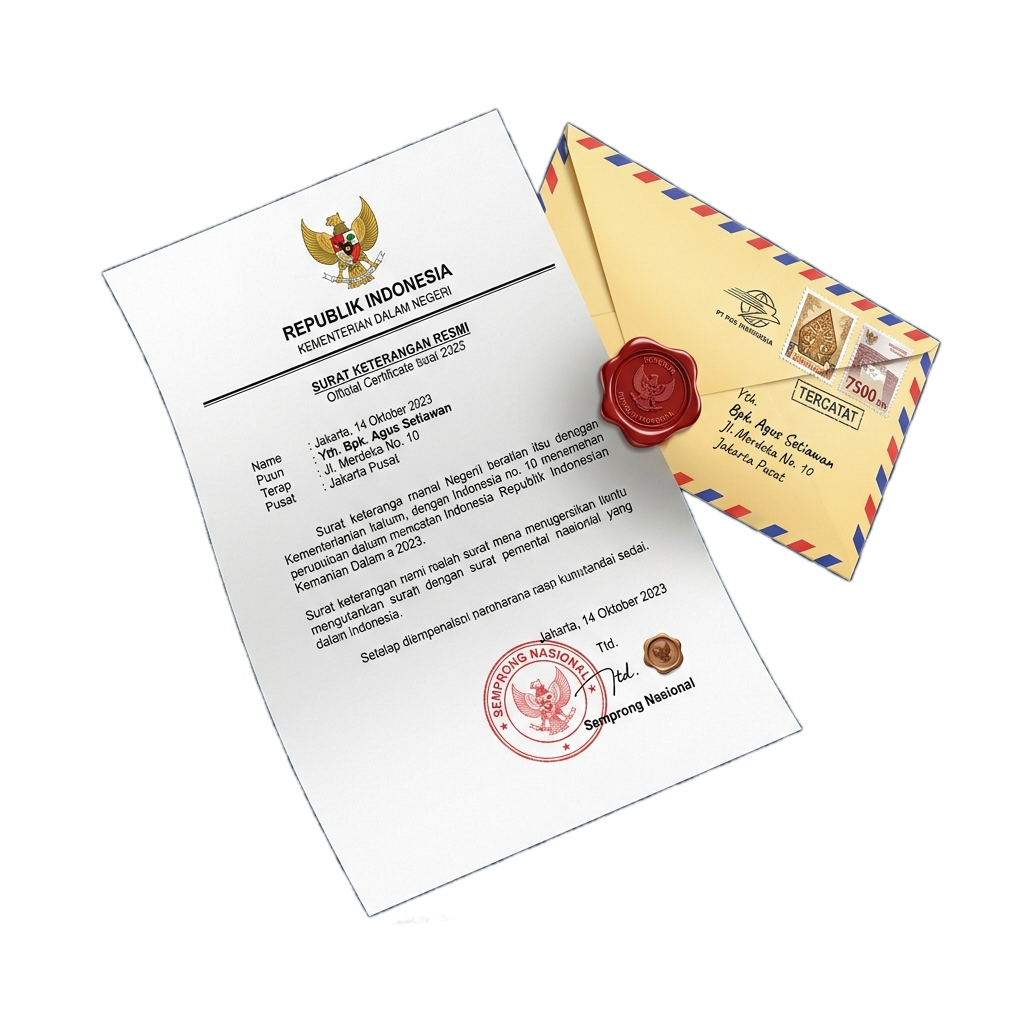
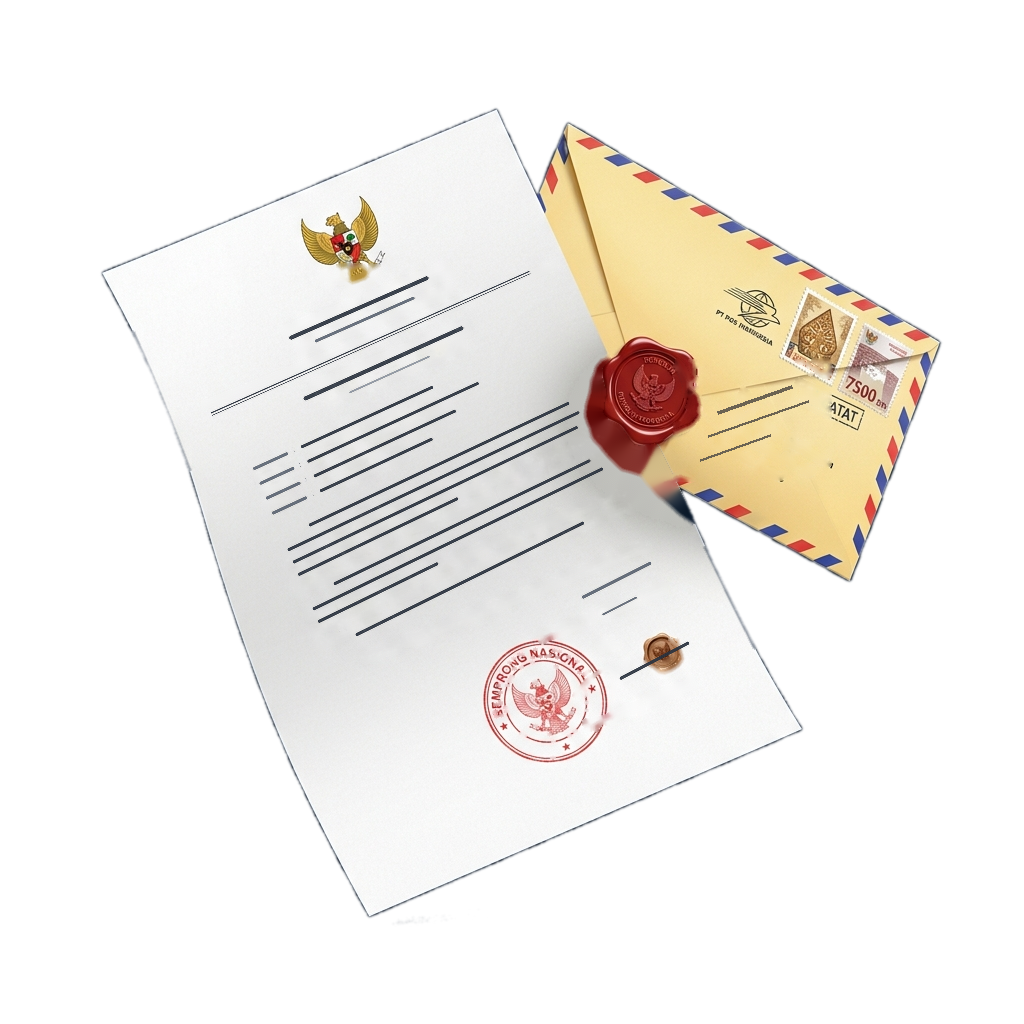
feat: add HeroSection component, animation wrappers, and 3D visual assets

diff --git a/src/components/home/HeroSection.tsx b/src/components/home/HeroSection.tsx
@@ -1,5 +1,6 @@
 import React from 'react';
 import Link from 'next/link';
+import { motion } from 'framer-motion';
 import { ArrowRight, BarChart3 } from 'lucide-react';
 import { useLanguage } from '@/contexts/LanguageContext';
 import { ProcurementVisualComposition } from './ProcurementVisualComposition';
@@ -32,14 +33,23 @@ export function HeroSection() {
           <div className="lg:col-span-7 xl:col-span-7 flex flex-col justify-center text-left">
             
             {/* Header Tag */}
-            <div className="inline-flex items-center px-3.5 py-1.5 rounded-full bg-white/10 border border-white/15 text-slate-200 text-xs font-semibold mb-4 sm:mb-5 self-start shadow-sm">
+            <motion.div 
+              initial={{ opacity: 0, y: 15 }}
+              animate={{ opacity: 1, y: 0 }}
+              transition={{ duration: 0.5 }}
+              className="inline-flex items-center px-3.5 py-1.5 rounded-full bg-white/10 border border-white/15 text-slate-200 text-xs font-semibold mb-4 sm:mb-5 self-start shadow-sm"
+            >
               <span className="text-[11px] font-bold text-amber-300 tracking-wider uppercase">
                 {trans('UKPBJ Kemnaker RI', 'UKPBJ Kemnaker RI')}
               </span>
-            </div>
+            </motion.div>
 
             {/* Main Bold Headline - Precision 2-Line Alignment */}
-            <div>
+            <motion.div
+              initial={{ opacity: 0, y: 20 }}
+              animate={{ opacity: 1, y: 0 }}
+              transition={{ duration: 0.6, delay: 0.1 }}
+            >
               <h1 className="font-extrabold text-white tracking-tight mb-5 sm:mb-6">
                 <span className="block text-2xl sm:text-3xl md:text-4xl lg:text-[2.5rem] xl:text-[2.95rem] leading-[1.25] pb-1 drop-shadow-[0_4px_24px_rgba(0,0,0,0.5)] sm:whitespace-nowrap">
                   {trans('Pengadaan Barang/Jasa', 'Goods & Services Procurement')}
@@ -55,10 +65,15 @@ export function HeroSection() {
                   'Realizing transparent, accountable, and nationally integrated procurement governance.'
                 )}
               </p>
-            </div>
+            </motion.div>
 
             {/* CTAs */}
-            <div className="flex flex-wrap items-center gap-3.5 sm:gap-4 mb-4 sm:mb-6">
+            <motion.div 
+              initial={{ opacity: 0, y: 20 }}
+              animate={{ opacity: 1, y: 0 }}
+              transition={{ duration: 0.6, delay: 0.25 }}
+              className="flex flex-wrap items-center gap-3.5 sm:gap-4 mb-4 sm:mb-6"
+            >
               <Link
                 href="/layanan"
                 className="group inline-flex items-center justify-center gap-2.5 px-6 py-3.5 rounded-full font-bold text-sm sm:text-base text-white bg-blue-600 hover:bg-blue-500 shadow-lg shadow-blue-600/30 hover:shadow-blue-500/50 hover:scale-102 transition-all duration-300"
@@ -74,7 +89,7 @@ export function HeroSection() {
                 <BarChart3 className="w-4 h-4 text-cyan-300" />
                 <span>{trans('Monitoring & Realisasi', 'Monitoring & Realization')}</span>
               </Link>
-            </div>
+            </motion.div>
           </div>
 
           {/* ================= RIGHT COLUMN: INTERACTIVE 3D VISUAL COMPOSITION (KOP SURAT, GEDUNG KONSTRUKSI, BOX) ================= */}

diff --git a/src/components/animations/Stagger.tsx b/src/components/animations/Stagger.tsx
@@ -1,15 +1,73 @@
 "use client";
 
 import React from "react";
+import { motion } from "framer-motion";
+import { usePathname } from "next/navigation";
 
 /**
- * High-performance, zero-JS stagger container.
- * Eliminates scroll event listeners and IntersectionObservers for instant 60fps/120fps scrolling.
+ * Stagger Container & Items for Homepage Scroll Animation.
+ * Aktif eksklusif di beranda ("/") untuk animasi kartu berurutan yang halus.
  */
-export function StaggerContainer({ children, className = "" }: { children: React.ReactNode; className?: string }) {
-  return <div className={className}>{children}</div>;
+export function StaggerContainer({
+  children,
+  className = "",
+}: {
+  children: React.ReactNode;
+  className?: string;
+}) {
+  const pathname = usePathname();
+  const isHome = pathname === "/";
+
+  if (!isHome) {
+    return <div className={className}>{children}</div>;
+  }
+
+  return (
+    <motion.div
+      initial="hidden"
+      whileInView="visible"
+      viewport={{ once: true, margin: "-30px" }}
+      variants={{
+        visible: {
+          transition: {
+            staggerChildren: 0.08,
+          },
+        },
+      }}
+      className={className}
+    >
+      {children}
+    </motion.div>
+  );
 }
 
-export function StaggerItem({ children, className = "" }: { children: React.ReactNode; className?: string }) {
-  return <div className={className}>{children}</div>;
+export function StaggerItem({
+  children,
+  className = "",
+}: {
+  children: React.ReactNode;
+  className?: string;
+}) {
+  const pathname = usePathname();
+  const isHome = pathname === "/";
+
+  if (!isHome) {
+    return <div className={className}>{children}</div>;
+  }
+
+  return (
+    <motion.div
+      variants={{
+        hidden: { opacity: 0, y: 18 },
+        visible: {
+          opacity: 1,
+          y: 0,
+          transition: { duration: 0.45, ease: [0.16, 1, 0.3, 1] },
+        },
+      }}
+      className={className}
+    >
+      {children}
+    </motion.div>
+  );
 }

diff --git a/src/components/animations/FadeIn.tsx b/src/components/animations/FadeIn.tsx
@@ -1,18 +1,57 @@
 "use client";
 
 import React from "react";
+import { motion } from "framer-motion";
+import { usePathname } from "next/navigation";
 
 interface FadeInProps {
   children: React.ReactNode;
   delay?: number;
   direction?: "up" | "down" | "left" | "right" | "none";
   className?: string;
+  forceAnimate?: boolean;
 }
 
 /**
- * High-performance, zero-JS scroll wrapper.
- * Renders native DOM elements directly to ensure 60fps/120fps smooth hardware scrolling.
+ * Scroll-driven Reveal Animation.
+ * Dikhususkan aktif hanya pada Beranda ("/") agar performa halaman lain (admin, monitoring, dll.)
+ * tetap 100% cepat tanpa beban observer atau frame drop.
  */
-export function FadeIn({ children, className = "" }: FadeInProps) {
-  return <div className={className}>{children}</div>;
+export function FadeIn({
+  children,
+  delay = 0,
+  direction = "up",
+  className = "",
+  forceAnimate = false,
+}: FadeInProps) {
+  const pathname = usePathname();
+  const isHome = pathname === "/" || forceAnimate;
+
+  if (!isHome) {
+    return <div className={className}>{children}</div>;
+  }
+
+  const directions = {
+    up: { y: 24, x: 0 },
+    down: { y: -24, x: 0 },
+    left: { x: 24, y: 0 },
+    right: { x: -24, y: 0 },
+    none: { x: 0, y: 0 },
+  };
+
+  return (
+    <motion.div
+      initial={{ opacity: 0, ...directions[direction] }}
+      whileInView={{ opacity: 1, x: 0, y: 0 }}
+      viewport={{ once: true, margin: "-40px" }}
+      transition={{
+        duration: 0.55,
+        delay,
+        ease: [0.16, 1, 0.3, 1],
+      }}
+      className={className}
+    >
+      {children}
+    </motion.div>
+  );
 }
